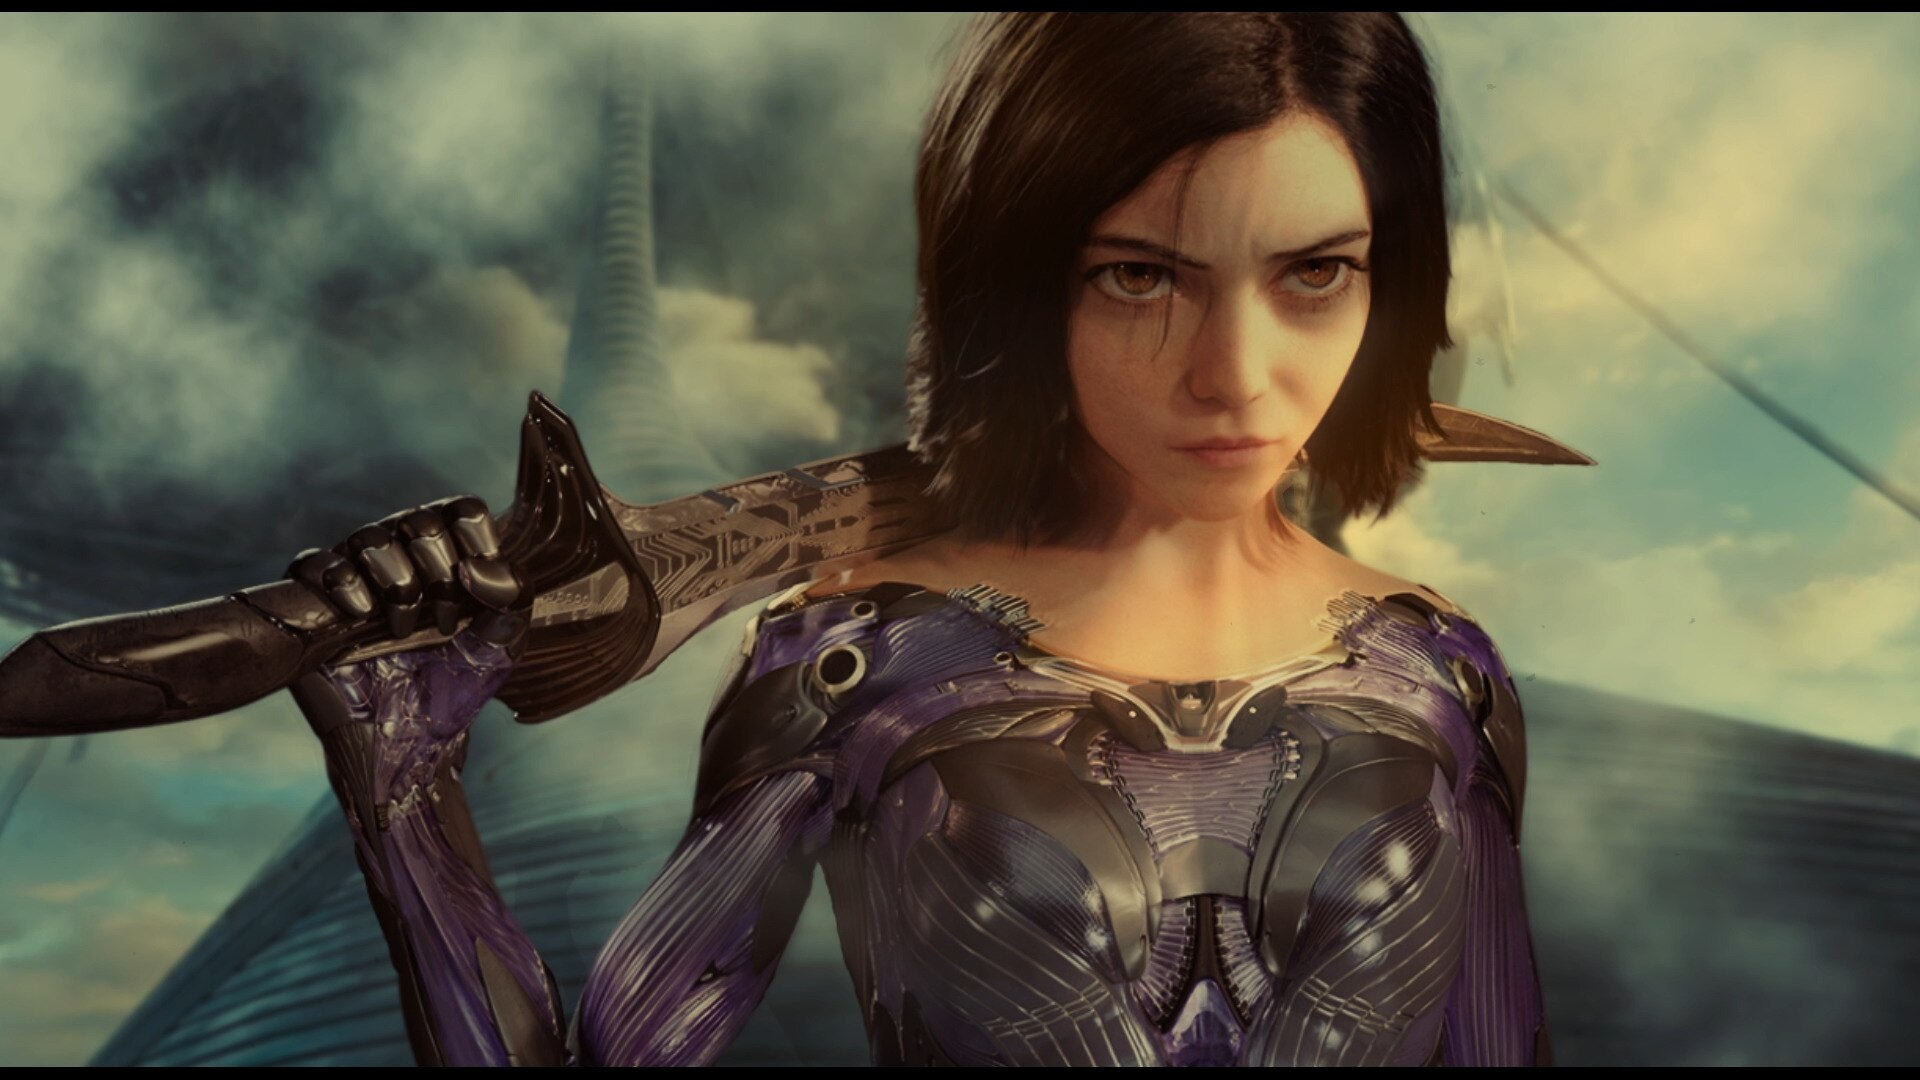
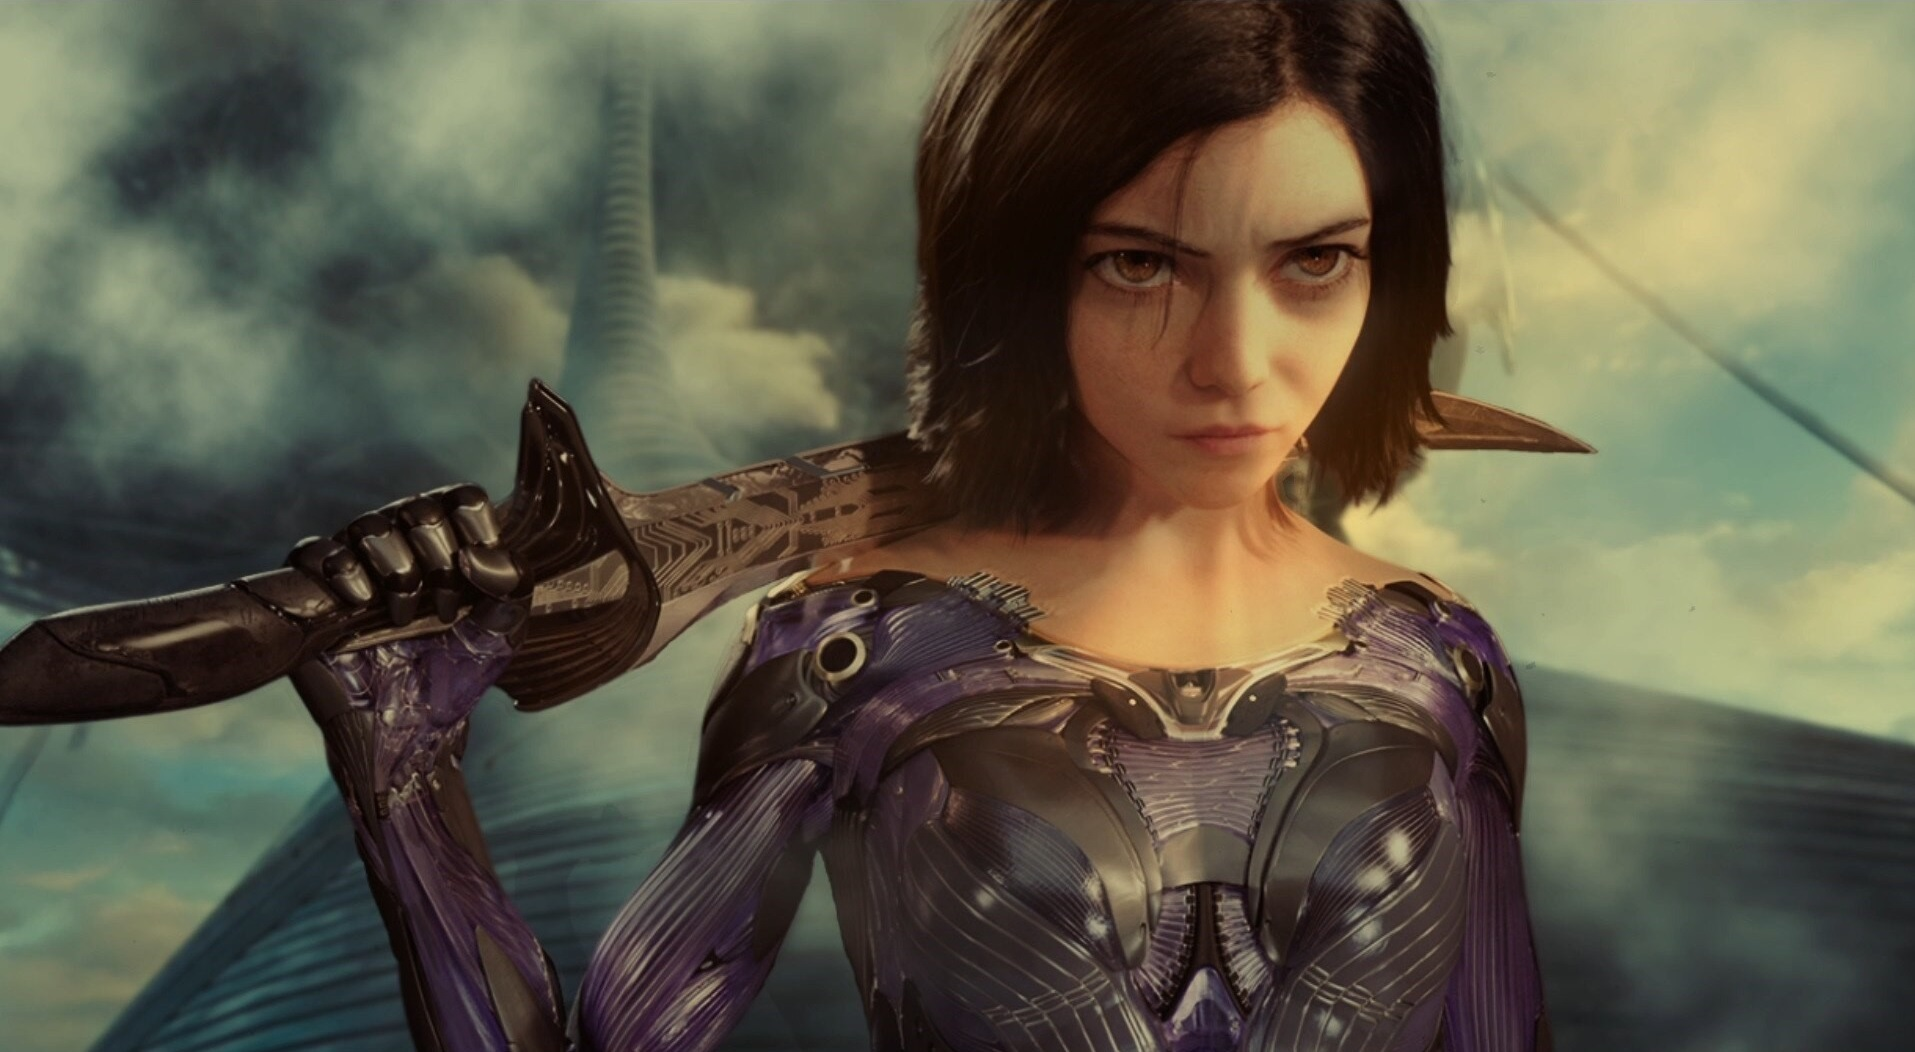
Mobile support

diff --git a/styles.css b/styles.css
@@ -11,12 +11,22 @@ html {
 
 }
 
-
+header {
+    display: flex;
+    position: fixed;
+    padding: 20px 10px;
+    background-color: #000;
+    top: 0;
+    z-index: 1000;
+    box-sizing: border-box !important;
+    width: 100%;
+}
 
 header .logo {
     font-size: 24px;
     font-weight: bold;
 }
+
 
 header nav ul {
     display: flex;
@@ -232,7 +242,7 @@ header nav ul li a {
 
 .portfolio {
    
-    padding: 100px 50px;
+    padding: 50px 50px;
     background-color: #2d2d2d;
 }
 
@@ -426,118 +436,174 @@ footer a {
 
 
 
+.slide {
+    display: none;
+    width: 100%; 
+    object-fit: scale-down;
+    user-select: none;
+}
+
+
+.description {
+    position: absolute;
+    bottom: 0;
+    background-color: rgba(0, 0, 0, 0.5);
+    color: white;
+    width: 100%;
+    padding: 20px;
+    box-sizing: border-box; 
+    user-select: none;
+}
+
+
+.dot {
+    cursor: pointer;
+    height: 15px;
+    width: 15px;
+    margin: 0 2px;
+    background-color: #bbb;
+    border-radius: 50%;
+    display: inline-block;
+    transition: background-color 0.6s ease;
+    user-select: none;
+}
+
+
+.active {
+    background-color: #717171;
+    user-select: none;
+}
+
+
+
+
+
+body::-webkit-scrollbar {
+    width: 1px;
+}
+
+body::-webkit-scrollbar-thumb {
+    background-color: #ffffff;
+    border-radius: 6px;
+}
+
+body::-webkit-scrollbar-track {
+    background-color: rgba(0, 0, 0, 0);
+}
+
 
 /* For phones */
 @media only screen and (max-width: 700px) {
-    header {
-        display: flex;
-        justify-content: space-between;
-        padding: 20px 50px;
-        background-color: #000;
-        position: fixed;
-        width: 87%;
-        top: 0;
-        z-index: 1000;
+    header nav  {
+        padding-left: 0px;
+        display: block !important;
+        display: none !important;
     }
-
+    
+    .header nav ul {
+        display: none;
+        list-style: none;
+        margin: 0;
+        padding-left: 10px;
+        padding: 0;
+    }
     .profile-image img {
         width: 350px;
         height: auto;
         border-radius: 30px;
         margin-top: 0px;
     }
-   /* Slideshow container */
-.slideshow-container {
-    position: relative;
-    width: 420px; 
-    height: 605px;
-    margin: auto;
-    overflow: hidden; 
-    object-fit: scale-down;
-    user-select: none;
-}
 
-.thumbnail  {
-    object-fit: cover;
-    width: 420px; 
-    height: 605px;
-    user-select: none;
-}
+    /* Slideshow container */
+    .slideshow-container {
+        position: relative;
+        width: auto;
+        height: 600px;
+        margin: auto;
+        overflow: hidden;
+        user-select: none;
+        border-radius: 60px;
+    }
 
-.game-icon {
-    position: absolute;
-    top: 30px; 
-    left: 130px; 
-    width: 150px; 
-    height: 150px;
-    z-index: 2; 
-    animation: glowing 2s infinite;
-    border-radius: 20px; 
-    object-fit: cover;
-    user-select: none;
-}
+    .thumbnail {
+        object-fit: cover;
+        width:  auto;
+        height: 600px;
+        user-select: none;
+        object-position: 55%;
+        transform: scale(1.1) translate(-25%, 10%);
+    }
 
-.game-button {
-    display: inline-block;
-    padding: 5px 10px;
-    font-size: 18px;
-    color: #fff;
-    border-radius: 5px;
-    z-index: 2; 
-    background-color: #333 !important; 
-    
-}
+    .game-icon {
+        position: absolute;
+        top: 30px;
+        left: 130px;
+        width: 150px;
+        height: 150px;
+        z-index: 2;
+        animation: glowing 2s infinite;
+        border-radius: 20px;
+        object-fit: cover;
+        user-select: none;
+        display: block !important;
+        display: none !important;
+    }
 
-.game-button:hover {
-    transition: all 0.3s ease-in-out !important; 
-    transform: scale(1.05); 
-    cursor: pointer;
-    user-select: none;
-}
+    .game-button {
+        display: inline-block;
+        padding: 5px 10px;
+        font-size: 15px;
+        color: #fff;
+        border-radius: 5px;
+        z-index: 2;
+        background-color: #333 !important;
+
+    }
+
+    .game-button:hover {
+        transition: all 0.3s ease-in-out !important;
+        transform: scale(1.05);
+        cursor: pointer;
+        user-select: none;
+    }
 
 
-.prev-point,
-.next-point {
-    position: absolute;
-    top: 30%;
-    transform: translateY(-50%);
-    width: 30px;
-    height: 30px;
-    background-color: rgba(0, 0, 0, 0.5);
-    color: #fff;
-    font-size: 20px;
-    text-align: center;
-    line-height: 30px;
-    cursor: pointer;
-    z-index: 5;
-    user-select: none;
-}
+    .prev-point,
+    .next-point {
+        position: absolute;
+        top: 10%;
+        transform: translateY(-50%);
+        width: 30px;
+        height: 30px;
+        background-color: rgba(0, 0, 0, 0.5);
+        color: #fff;
+        font-size: 20px;
+        text-align: center;
+        line-height: 30px;
+        cursor: pointer;
+        z-index: 5;
+        user-select: none;
+    }
 
-.prev-point {
-    left: 10px;
-    user-select: none;
-}
+    .prev-point {
+        left: 10px;
+        user-select: none;
+    }
 
-.next-point {
-    right: 10px;
-    user-select: none;
-}
+    .next-point {
+        right: 10px;
+        user-select: none;
+    }
 
 }
 
 /* For larger screens */
-@media only screen and (min-width: 701px) {
-    header {
-        display: flex;
-        justify-content: space-between;
-        padding: 20px 50px;
-        background-color: #000;
-        position: fixed;
-        width: 95%;
-        top: 0;
-        z-index: 1000;
+@media only screen and (min-width: 700px) {
+    
+    header nav  {
+        padding-left: 1100px;
     }
-
+    
     .profile-image img {
         width: 350px;
         height: auto;
@@ -547,19 +613,22 @@ footer a {
     /* Slideshow container */
 .slideshow-container {
     position: relative;
-    width: 1300px; 
+    width: auto; 
     height: 550px;
     margin: auto;
     overflow: hidden; 
     object-fit: scale-down;
     user-select: none;
+    border-radius: 30px;
 }
 
 .thumbnail  {
-    object-fit: cover;
-    width: 1300px; 
-    height: 550px;
+    object-fit: scale-down;
+    width:  auto; 
+    height: auto;
     user-select: none;
+    object-position: 55%;
+    transform: scale(1) translate(0, -15%);
 }
 
 .game-icon {
@@ -620,62 +689,4 @@ footer a {
     user-select: none;
 }
 
-}
-
-
-
-
-.slide {
-    display: none;
-    width: 100%; 
-    object-fit: scale-down;
-    user-select: none;
-}
-
-
-.description {
-    position: absolute;
-    bottom: 0;
-    background-color: rgba(0, 0, 0, 0.5);
-    color: white;
-    width: 100%;
-    padding: 20px;
-    box-sizing: border-box; 
-    user-select: none;
-}
-
-
-.dot {
-    cursor: pointer;
-    height: 15px;
-    width: 15px;
-    margin: 0 2px;
-    background-color: #bbb;
-    border-radius: 50%;
-    display: inline-block;
-    transition: background-color 0.6s ease;
-    user-select: none;
-}
-
-
-.active {
-    background-color: #717171;
-    user-select: none;
-}
-
-
-
-
-
-body::-webkit-scrollbar {
-    width: 1px;
-}
-
-body::-webkit-scrollbar-thumb {
-    background-color: #ffffff;
-    border-radius: 6px;
-}
-
-body::-webkit-scrollbar-track {
-    background-color: rgba(0, 0, 0, 0);
 }

diff --git a/index.html b/index.html
@@ -106,7 +106,7 @@
                 </div>
             </div>
             <div class="slide fade">
-                <img class="thumbnail" src="images/thumbails/gamingsimupdate.png" alt="Gaming Simulator">
+                <img class="thumbnail" src="images/thumbails/gamingsimupdate2.png" alt="Gaming Simulator">
                 <!-- Add the game icon at the top-left corner -->
                 <img class="game-icon" src="images/gaming simulator ikona.png" alt="Game Icon">
                 
